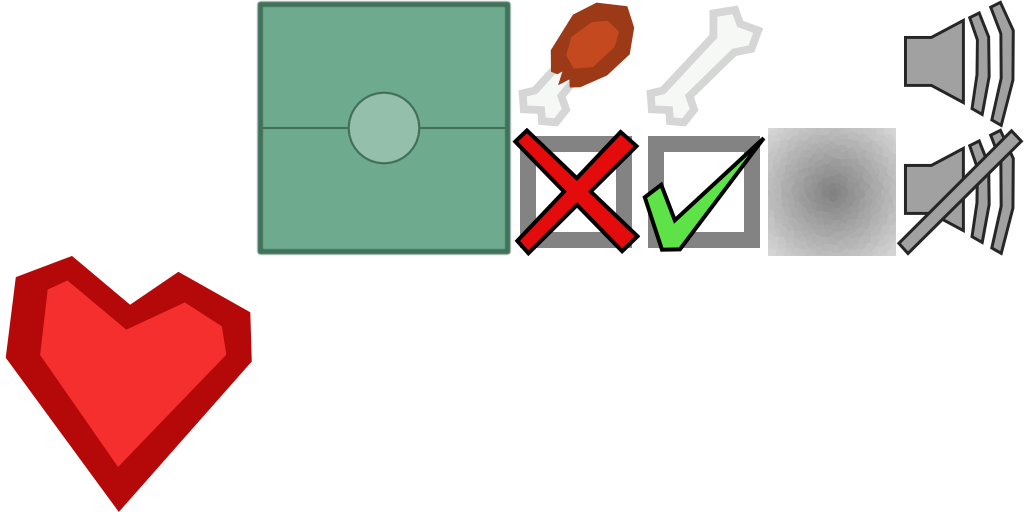
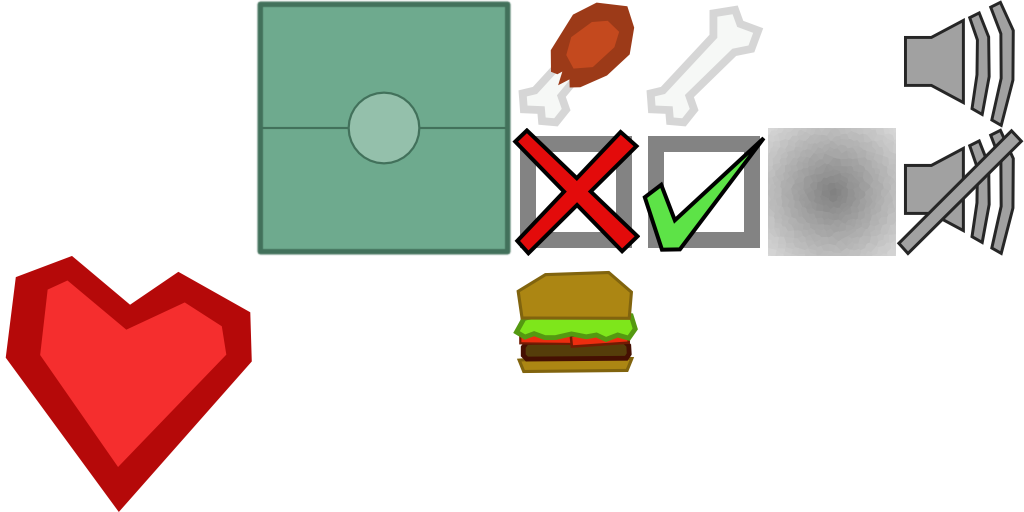
Added new food sprite, gameplay tweaks, small other changes

Changed region(s): [[0.5, 0.5312, 0.625, 0.75]]

diff --git a/DodgeGame/src/walnoot/dodgegame/components/PlayerComponent.java b/DodgeGame/src/walnoot/dodgegame/components/PlayerComponent.java
@@ -16,12 +16,12 @@ import com.badlogic.gdx.math.Vector2;
 public class PlayerComponent extends Component{
 	public static final int NUM_START_LIVES = 3;
 	private static final float WALK_SPEED = 6f;//per second
-	private static final float RADIUS_GROW_RATE = 1 / 32f, RADIUS_SHRINK_FACTOR = 3f / 4f;
+	private static final float RADIUS_GROW_RATE = 1 / 32f, RADIUS_SHRINK_FACTOR = 4f / 5f;
 	private static final float MINIMAL_RADIUS = 0.5f;
 	private static final int INVINCIBILITY_TIME = 240;//ticks
 	
-	public static final String[] GROW_STATUS_TEXTS = {"AWESOME", "NOT BAD", "SPLENDID", "GOOD", "COOL"};
-	public static final String[] BAD_STUFF_STATUS_TEXTS = {"TOO BAD", "AWW", "NOT GOOD", "QUITE BAD"};//for both shrink and death types because I'm lazy as fuck
+	public static final String[] GROW_STATUS_TEXTS = {"AWESOME!", "NOT BAD!", "SPLENDID!", "GOOD!", "COOL!"};
+	public static final String[] BAD_STUFF_STATUS_TEXTS = {"TOO BAD!", "AWW!", "NOT GOOD!", "QUITE BAD!"};//for both shrink and death types because I'm lazy as fuck
 	
 	private float radius = 1f;
 	private int lives = NUM_START_LIVES;
@@ -47,7 +47,7 @@ public class PlayerComponent extends Component{
 				float dx = DodgeGame.INPUT.getInputX() - owner.getxPos();
 				float dy = DodgeGame.INPUT.getInputY() - owner.getyPos();
 				
-				if(Math.abs(dx) > 0.1f || Math.abs(dy) > 0.1f) translation.set(dx, dy);
+				translation.set(dx, dy);
 			}
 			
 			if(DodgeGame.INPUT.up.isPressed()) translation.add(0, 1);
@@ -55,8 +55,16 @@ public class PlayerComponent extends Component{
 			if(DodgeGame.INPUT.left.isPressed()) translation.add(-1, 0);
 			if(DodgeGame.INPUT.right.isPressed()) translation.add(1, 0);
 			
-			translation.nor();
-			translation.mul(DodgeGame.SECONDS_PER_UPDATE * WALK_SPEED);
+			float length = translation.len();
+			
+			if(length > DodgeGame.SECONDS_PER_UPDATE * WALK_SPEED){
+				//normalize the vector
+				translation.x /= length;
+				translation.y /= length;
+				
+				translation.mul(DodgeGame.SECONDS_PER_UPDATE * WALK_SPEED);
+			}
+			
 			owner.translate(translation);
 		}else{
 			movementLockTimer--;
@@ -67,7 +75,7 @@ public class PlayerComponent extends Component{
 		
 		if(invincibilityTimer > 0){
 			invincibilityTimer--;
-			spriteComponent.getSprite().setColor(Color.DARK_GRAY);
+			spriteComponent.getSprite().setColor(Color.GRAY);
 		}else spriteComponent.getSprite().setColor(Color.BLACK);
 	}
 	
@@ -120,7 +128,7 @@ public class PlayerComponent extends Component{
 	}
 	
 	private String getRandomText(String[] texts){
-		return texts[MathUtils.random(0, texts.length - 1)] + "!";
+		return texts[MathUtils.random(0, texts.length - 1)];
 	}
 	
 	public int getScore(){

diff --git a/DodgeGame/src/walnoot/dodgegame/states/TutorialState.java b/DodgeGame/src/walnoot/dodgegame/states/TutorialState.java
@@ -8,22 +8,24 @@ import walnoot.dodgegame.ui.TextElement;
 
 import com.badlogic.gdx.Application.ApplicationType;
 import com.badlogic.gdx.Gdx;
+import com.badlogic.gdx.Input.Buttons;
 import com.badlogic.gdx.Input.Keys;
+import com.badlogic.gdx.graphics.Color;
 import com.badlogic.gdx.graphics.OrthographicCamera;
 import com.badlogic.gdx.graphics.g2d.Sprite;
 import com.badlogic.gdx.graphics.g2d.SpriteBatch;
 import com.badlogic.gdx.math.MathUtils;
 
 public class TutorialState extends State{
-	public static final float FOOD_RADIUS = 6f;
-	public static final float FOOD_SIZE = 3f;
+	public static final float FOOD_RADIUS = 5f;
+	public static final float FOOD_SIZE = 4f;
 	
-	public static final int GOOD_FOOD = 0, BAD_FOOD = 1;
+	private static final int PLAYER_EXPLANATION = 0, GOOD_FOOD = 1, BAD_FOOD = 2, POISON_FOOD = 3;
 	public static final String PREF_TUTORIAL_KEY = "showTuturial";
 	private static final int MINIMAL_SKIP_TIME = 120;//ticks
 	
 	private TextElement descriptionElement, skipElement;
-	private int state = GOOD_FOOD;
+	private int state = PLAYER_EXPLANATION;
 	private int skipTimer;
 	
 	private ArrayList<Sprite> sprites = new ArrayList<Sprite>(3);
@@ -43,11 +45,13 @@ public class TutorialState extends State{
 	public void update(){
 		skipTimer++;
 		
-		if(skipTimer > MINIMAL_SKIP_TIME && Gdx.input.isKeyPressed(Keys.SPACE)){
-			skipTimer = 0;
-			
-			state++;
-			initState();
+		if(skipTimer > MINIMAL_SKIP_TIME){
+			if(Gdx.input.isKeyPressed(Keys.SPACE) || Gdx.input.isButtonPressed(Buttons.LEFT)){
+				skipTimer = 0;
+				
+				state++;
+				initState();
+			}
 		}
 		
 		angle++;
@@ -64,9 +68,17 @@ public class TutorialState extends State{
 		String text = null;
 		
 		switch (state){
+			case PLAYER_EXPLANATION:
+				Sprite sprite = new Sprite(Util.DOT);
+				sprite.setColor(Color.BLACK);
+				sprites.add(sprite);
+				
+				text = "THIS IS YOU! (FOR NOW)";
+				
+				break;
 			case GOOD_FOOD:
 				sprites.add(new Sprite(Util.FOOD_ONE));
-				sprites.add(new Sprite(Util.DOT));
+				sprites.add(new Sprite(Util.FOOD_TWO));
 				sprites.add(new Sprite(Util.DOT));
 				
 				text = "EAT THESE TO GROW!";
@@ -77,7 +89,11 @@ public class TutorialState extends State{
 				sprites.add(new Sprite(Util.DOT));
 				sprites.add(new Sprite(Util.DOT));
 				
-				text = "AVOID AT ALL COSTS!";
+				text = "THIS ROTTEN FOOD WILL MAKE YOU SHRINK!";
+				
+				break;
+			case POISON_FOOD:
+				text = "THE PURPLE DOTS KILL YOU, NO SPRITES YET!";
 				
 				break;
 			default:

diff --git a/DodgeGame/src/walnoot/dodgegame/states/GameState.java b/DodgeGame/src/walnoot/dodgegame/states/GameState.java
@@ -22,9 +22,9 @@ import com.badlogic.gdx.math.MathUtils;
 public class GameState extends State{
 	public static final float MAP_SIZE = 8;
 	public static final int MAX_UNUSED_ENTITIES = 10;
-	private static final int GROW_OBJECT_CHANGE = 40, SHRINK_OBJECT_CHANGE = 40; //out of 100
-	private static final int INITIAL_SPAWN_RATE = 40;
-	private static final int SPAWN_RATE_SCALE = 10;
+	private static final int GROW_OBJECT_CHANGE = 60, SHRINK_OBJECT_CHANGE = 20; //out of 100
+	private static final int INITIAL_SPAWN_RATE = 30;
+	private static final int SPAWN_RATE_SCALE = 4;
 	private static final float STATUS_TEXT_SCALE = 2f;//scale of the status text at the beginning
 	
 	private ArrayList<Entity> unusedEntities = new ArrayList<Entity>(MAX_UNUSED_ENTITIES);
@@ -47,6 +47,7 @@ public class GameState extends State{
 		
 		Entity playerEntity = new Entity(map, 0, 0, 0);
 		playerEntity.addComponent(new SpriteComponent(playerEntity, Util.DOT, Color.BLACK));
+		
 		PlayerComponent playerComponent = new PlayerComponent(playerEntity, this);
 		playerEntity.addComponent(playerComponent);
 		

diff --git a/DodgeGame/src/walnoot/dodgegame/states/MainMenuState.java b/DodgeGame/src/walnoot/dodgegame/states/MainMenuState.java
@@ -4,6 +4,7 @@ import walnoot.dodgegame.DodgeGame;
 import walnoot.dodgegame.ui.TextButton;
 import walnoot.dodgegame.ui.TextElement;
 
+import com.badlogic.gdx.Application.ApplicationType;
 import com.badlogic.gdx.Gdx;
 import com.badlogic.gdx.graphics.Color;
 import com.badlogic.gdx.graphics.OrthographicCamera;
@@ -50,13 +51,17 @@ public class MainMenuState extends State{
 			}
 		};
 		
-		TextButton quitGameButton = new TextButton("QUIT GAME", 0, -4f, 2f){
-			public void doAction(){
-				Gdx.app.exit();
-			}
-		};
-		
-		textElements = new TextElement[]{titleElement, newGameButton, creditsButton, optionsButton, quitGameButton};
+		if(Gdx.app.getType() == ApplicationType.Android){
+			textElements = new TextElement[]{titleElement, newGameButton, creditsButton, optionsButton};
+		}else{
+			TextButton quitGameButton = new TextButton("QUIT GAME", 0, -4f, 2f){
+				public void doAction(){
+					Gdx.app.exit();
+				}
+			};
+			
+			textElements = new TextElement[]{titleElement, newGameButton, creditsButton, optionsButton, quitGameButton};
+		}
 	}
 	
 	public void update(){

diff --git a/DodgeGame/src/walnoot/dodgegame/Util.java b/DodgeGame/src/walnoot/dodgegame/Util.java
@@ -8,6 +8,7 @@ public class Util{
 	public static final TextureRegion FIELD = getRegion(0.25f, 0f, 0.5f, 0.5f);
 	public static final TextureRegion FONT = getRegion(0.25f, 0.5f, 0.5f, 1f);
 	public static final TextureRegion FOOD_ONE = getRegion(0.5f, 0f, 0.625f, 0.25f);
+	public static final TextureRegion FOOD_TWO = getRegion(0.5f, 0.5f, 0.625f, 0.75f);
 	public static final TextureRegion ICON_FALSE = getRegion(0.5f, 0.25f, 0.625f, 0.5f);
 	public static final TextureRegion ICON_TRUE = getRegion(0.625f, 0.25f, 0.75f, 0.5f);
 	public static final TextureRegion BAD_FOOD_ONE = getRegion(0.625f, 0f, 0.75f, 0.25f);

diff --git a/DodgeGame/src/walnoot/dodgegame/components/SpriteComponent.java b/DodgeGame/src/walnoot/dodgegame/components/SpriteComponent.java
@@ -42,9 +42,14 @@ public class SpriteComponent extends Component{
 	}
 	
 	public void newSprite(TextureRegion region){
-		sprite = new Sprite(region);
-		sprite.setSize(1f, 1f);
-		sprite.setOrigin(sprite.getWidth() / 2, sprite.getHeight() / 2);
+		if(sprite == null){
+			sprite = new Sprite(region);
+			sprite.setSize(1f, 1f);
+			sprite.setOrigin(sprite.getWidth() / 2, sprite.getHeight() / 2);
+		}else{
+			sprite.setRegion(region);
+			sprite.setColor(Color.WHITE);
+		}
 	}
 	
 	public void setSpinSpeed(float spinSpeed){

diff --git a/DodgeGame/src/walnoot/dodgegame/DodgeGame.java b/DodgeGame/src/walnoot/dodgegame/DodgeGame.java
@@ -49,7 +49,7 @@ public class DodgeGame implements ApplicationListener{
 		batch = new SpriteBatch(100);
 		
 		TEXTURE = new Texture("images.png");
-		TEXTURE.setFilter(TextureFilter.Linear, TextureFilter.Linear);
+		TEXTURE.setFilter(TextureFilter.Nearest, TextureFilter.Linear);
 		
 		FONT = new BitmapFont(Gdx.files.internal("komika_axis.fnt"), Util.FONT, false);
 		

diff --git a/DodgeGame/src/walnoot/dodgegame/components/ObjectModifierComponent.java b/DodgeGame/src/walnoot/dodgegame/components/ObjectModifierComponent.java
@@ -99,7 +99,7 @@ public class ObjectModifierComponent extends Component{
 	}
 	
 	public enum ModifierType{
-		GROW(Util.FOOD_ONE), SHRINK(Util.BAD_FOOD_ONE), DEATH(Util.DOT);
+		GROW(Util.FOOD_ONE, Util.FOOD_TWO), SHRINK(Util.BAD_FOOD_ONE), DEATH(Util.DOT);
 		
 		private final TextureRegion[] regions;
 		

diff --git a/DodgeGame/src/walnoot/dodgegame/components/HeartComponent.java b/DodgeGame/src/walnoot/dodgegame/components/HeartComponent.java
@@ -3,6 +3,9 @@ package walnoot.dodgegame.components;
 import walnoot.dodgegame.Entity;
 import walnoot.dodgegame.states.GameState;
 
+/**
+ * component that represents the heart icons at the top of the screen
+ */
 public class HeartComponent extends Component{
 	public static final float SCALE = 2f;
 	

diff --git a/DodgeGame/src/walnoot/dodgegame/ui/TextElement.java b/DodgeGame/src/walnoot/dodgegame/ui/TextElement.java
@@ -8,7 +8,6 @@ import com.badlogic.gdx.graphics.g2d.SpriteBatch;
 
 public class TextElement{
 	private String text;
-	//protected final Rectangle rectangle;
 	private float xPos, yPos, scale;
 	private Color color = new Color(Color.BLACK);
 	private TextBounds bounds;
